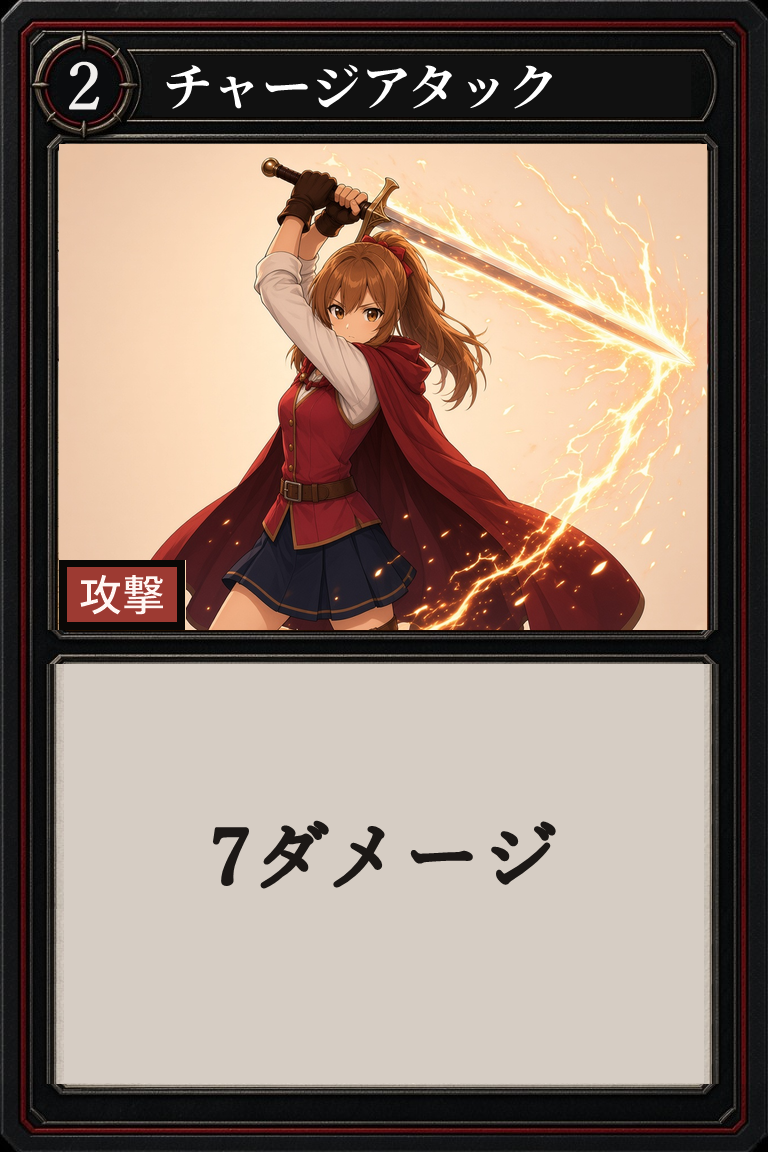
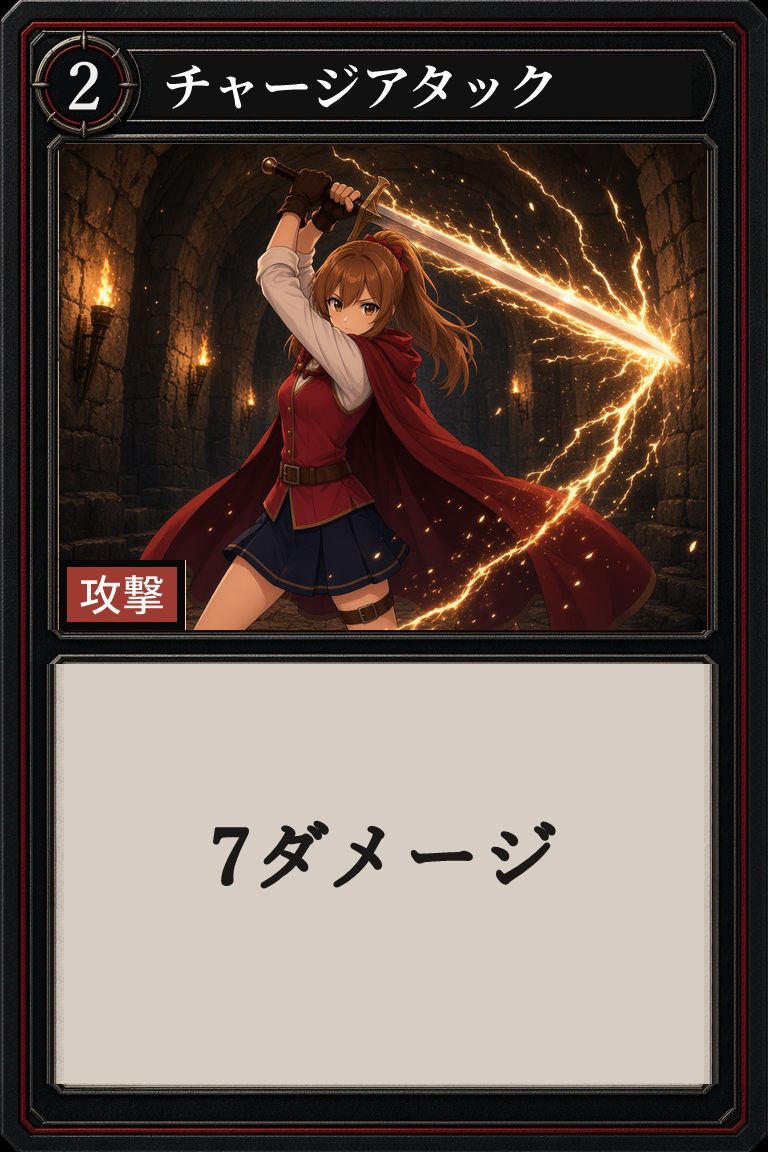
Put the charge attack in a dungeon and keep her gaze off the camera

Changed region(s): [[0.0625, 0.125, 0.9375, 0.5625]]

diff --git a/index.html b/index.html
@@ -5290,7 +5290,7 @@
     };
     const CARD_ART_CAST = {
       アタック: ["card-attack-m.jpg?v=2", "card-attack-f.jpg?v=3"],
-      チャージアタック: ["card-charge-m.jpg?v=1", "card-charge-f.jpg?v=5"],
+      チャージアタック: ["card-charge-m.jpg?v=1", "card-charge-f.jpg?v=6"],
       ビッグアタック: ["card-big-attack-m.jpg?v=1", "card-big-attack-f.jpg?v=1"],
       ブロック: ["card-block-m.jpg?v=1", "card-block-f.jpg?v=3"],
       ハードブロック: ["card-hard-block-m.jpg?v=1", "card-hard-block-f.jpg?v=3"],
@@ -8859,7 +8859,7 @@
       ["made-attack-m", "アタック（男）", "card-attack-m.jpg?v=2"],
       ["made-attack-f", "アタック（女）", "card-attack-f-card.png?v=5"],
       ["made-charge-m", "チャージアタック（男）", "card-charge-m.jpg?v=1"],
-      ["made-charge-f", "チャージアタック（女）", "card-charge-f-card.png?v=5"],
+      ["made-charge-f", "チャージアタック（女）", "card-charge-f-card.png?v=6"],
       ["made-big-attack-m", "ビッグアタック（男）", "card-big-attack-m.jpg?v=1"],
       ["made-big-attack-f", "ビッグアタック（女）", "card-big-attack-f.jpg?v=1"],
       ["made-fatal", "致命の一撃", "card-fatal.jpg?v=2"],
